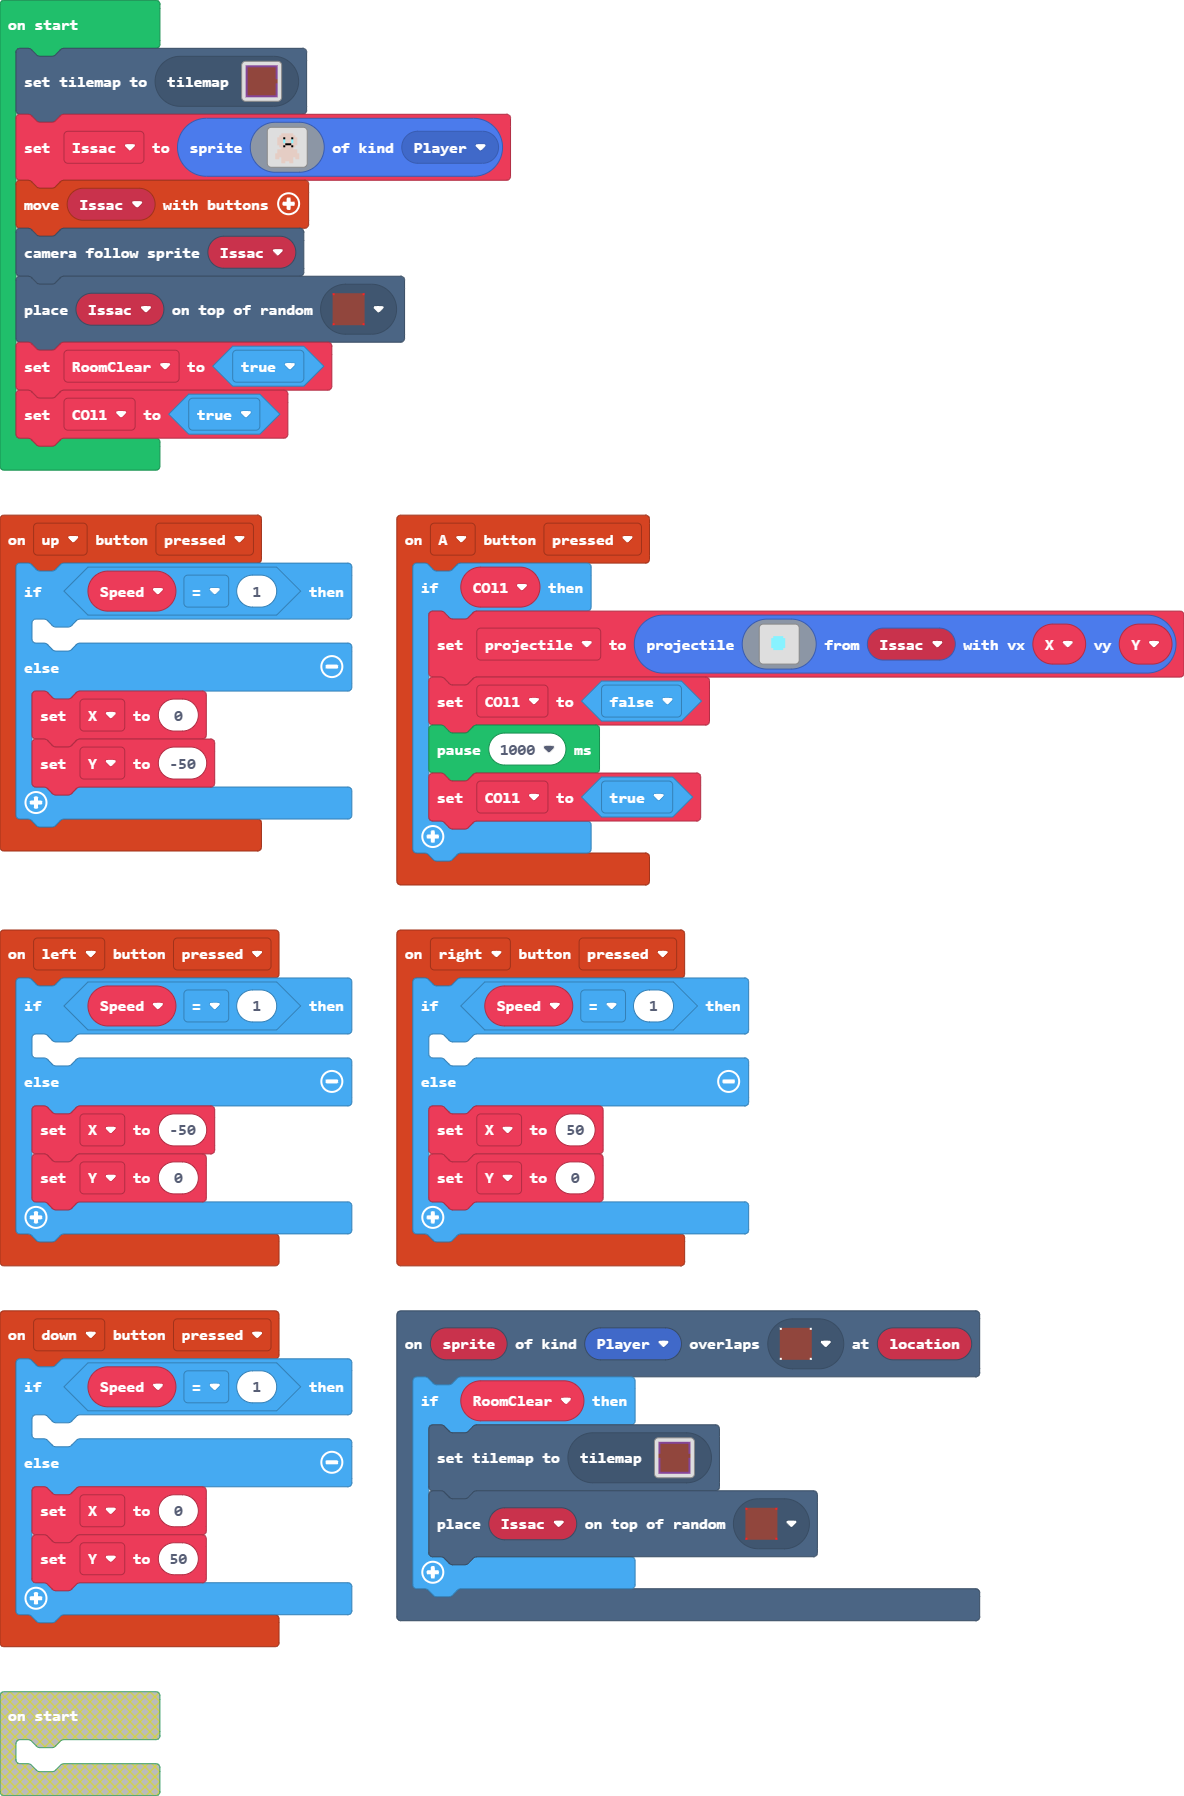
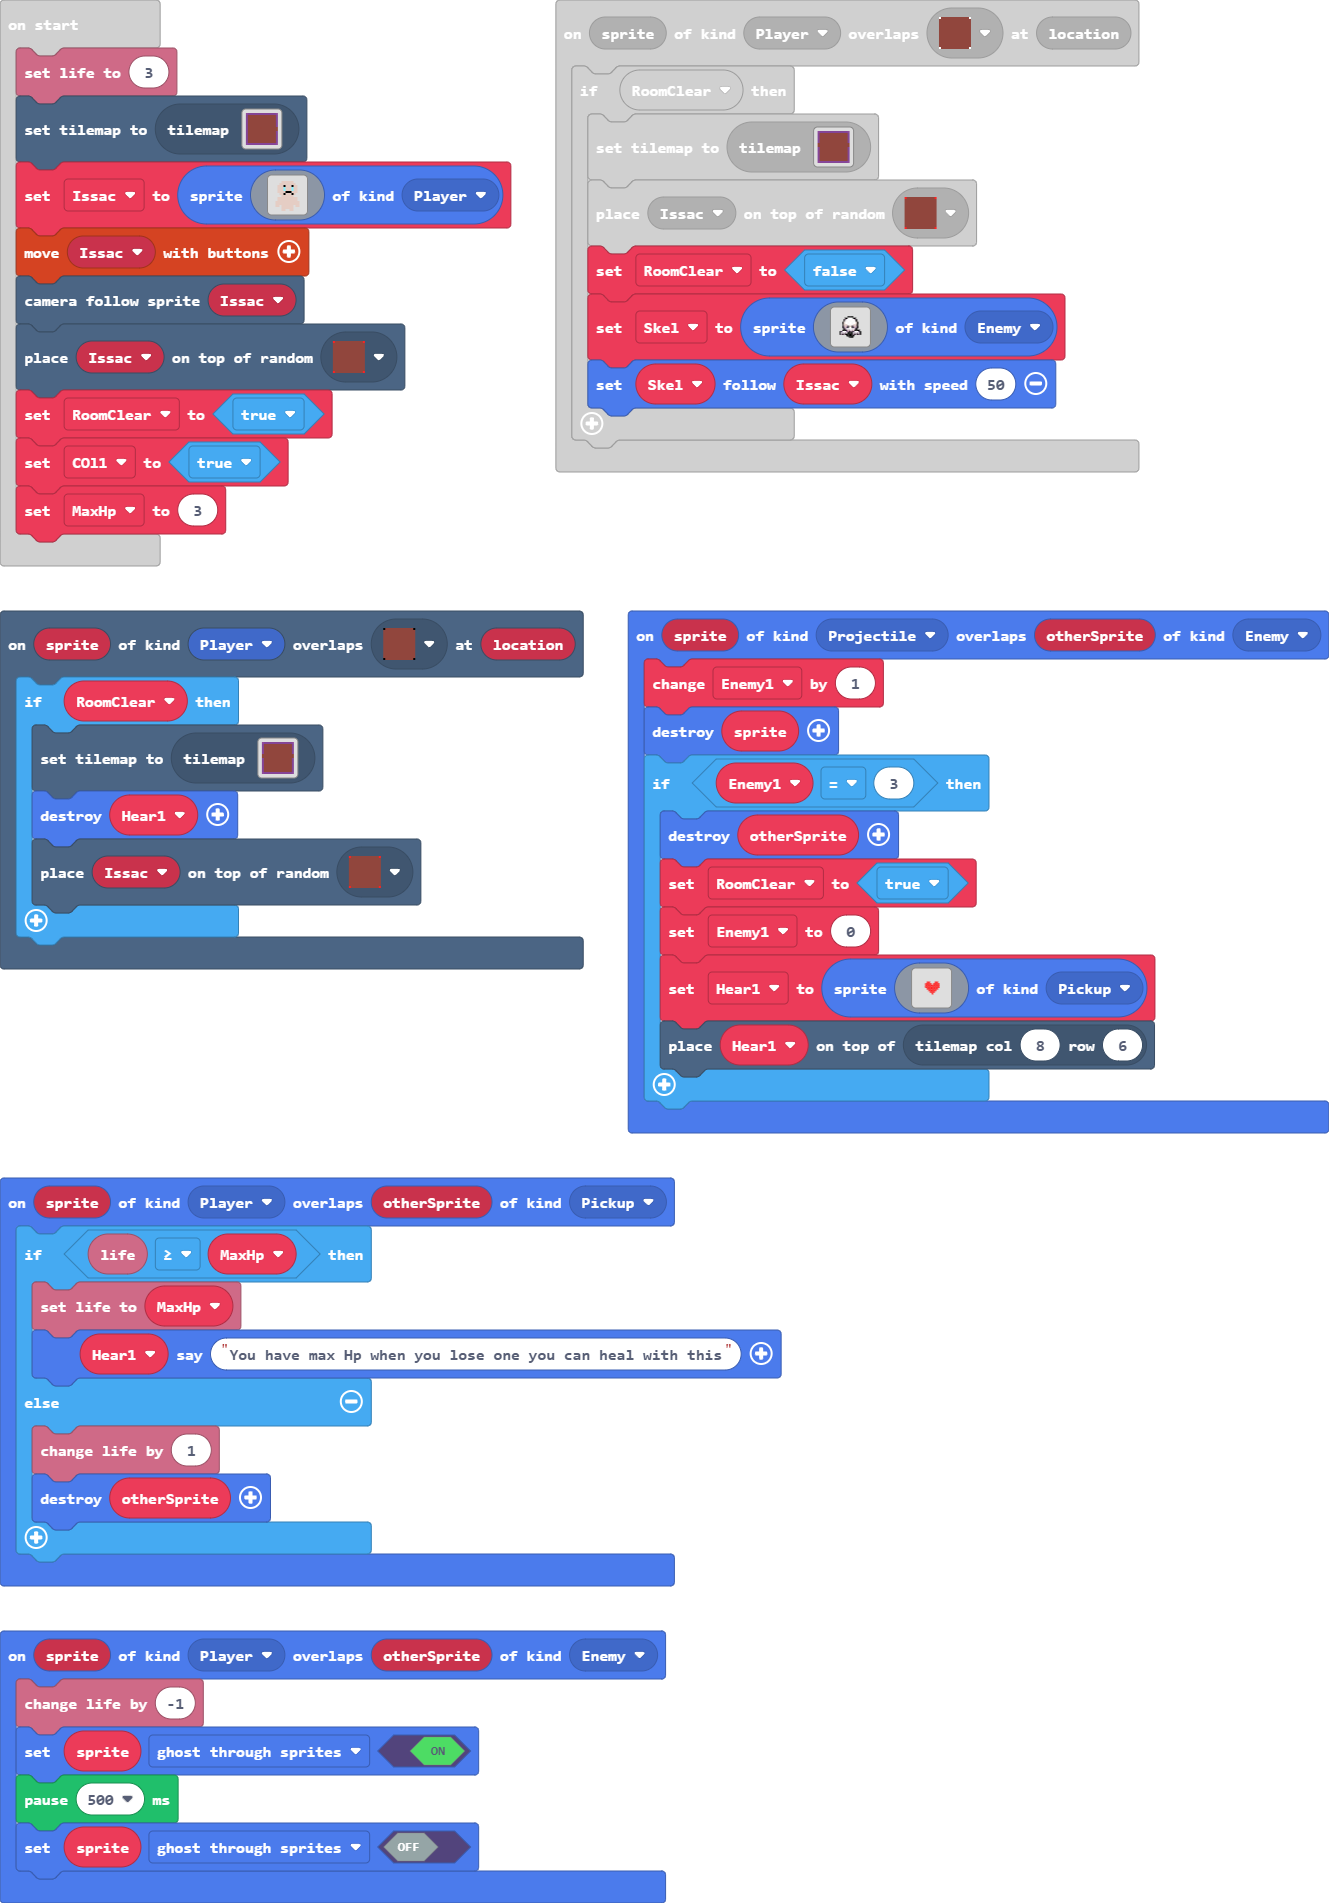
Update pxt.json, main.blocks, main.ts, tilemap.g.jres, tilemap.g.ts

diff --git a/tilemap.g.ts b/tilemap.g.ts
@@ -108,25 +108,101 @@ namespace myTiles {
 . . . . . . . . . . . . . . . . 
 . . . . . . . . . . . . . . . . 
 `, [myTiles.transparency16], TileScale.Sixteen);
+            case "level7":
+            case "level7":return tiles.createTilemap(hex`1000100000000000000000000000000000000000000000000000000000000000000000000000000000000000000000000000000000000000000000000000000000000000000000000000000000000000000000000000000000000000000000000000000000000000000000000000000000000000000000000000000000000000000000000000000000000000000000000000000000000000000000000000000000000000000000000000000000000000000000000000000000000000000000000000000000000000000000000000000000000000000000000000000000000000000000000000000000000000000000000000000000000000000000000000000000000000`, img`
+. . . . . . . . . . . . . . . . 
+. . . . . . . . . . . . . . . . 
+. . . . . . . . . . . . . . . . 
+. . . . . . . . . . . . . . . . 
+. . . . . . . . . . . . . . . . 
+. . . . . . . . . . . . . . . . 
+. . . . . . . . . . . . . . . . 
+. . . . . . . . . . . . . . . . 
+. . . . . . . . . . . . . . . . 
+. . . . . . . . . . . . . . . . 
+. . . . . . . . . . . . . . . . 
+. . . . . . . . . . . . . . . . 
+. . . . . . . . . . . . . . . . 
+. . . . . . . . . . . . . . . . 
+. . . . . . . . . . . . . . . . 
+. . . . . . . . . . . . . . . . 
+`, [myTiles.transparency16], TileScale.Sixteen);
+            case "level8":
+            case "level8":return tiles.createTilemap(hex`1000100000000000000000000000000000000000000000000000000000000000000000000000000000000000000000000000000000000000000000000000000000000000000000000000000000000000000000000000000000000000000000000000000000000000000000000000000000000000000000000000000000000000000000000000000000000000000000000000000000000000000000000000000000000000000000000000000000000000000000000000000000000000000000000000000000000000000000000000000000000000000000000000000000000000000000000000000000000000000000000000000000000000000000000000000000000000`, img`
+. . . . . . . . . . . . . . . . 
+. . . . . . . . . . . . . . . . 
+. . . . . . . . . . . . . . . . 
+. . . . . . . . . . . . . . . . 
+. . . . . . . . . . . . . . . . 
+. . . . . . . . . . . . . . . . 
+. . . . . . . . . . . . . . . . 
+. . . . . . . . . . . . . . . . 
+. . . . . . . . . . . . . . . . 
+. . . . . . . . . . . . . . . . 
+. . . . . . . . . . . . . . . . 
+. . . . . . . . . . . . . . . . 
+. . . . . . . . . . . . . . . . 
+. . . . . . . . . . . . . . . . 
+. . . . . . . . . . . . . . . . 
+. . . . . . . . . . . . . . . . 
+`, [myTiles.transparency16], TileScale.Sixteen);
             case "FirstEnemyRoom":
[1 lines of base64/hex data omitted]
+2 2 2 2 2 2 2 2 2 2 2 2 2 2 2 2 
+2 . . . . . . . . . . . . . . 2 
+2 . . . . . . . . . . . . . . 2 
+2 . . . . . . . . . . . . . . 2 
+2 . . . . . . . . . . . . . . 2 
+2 . . . . . . . . . . . . . . 2 
 . . . . . . . . . . . . . . . . 
 . . . . . . . . . . . . . . . . 
-. . . . . . . . . . . . . . . . 
-. . . . . . . . . . . . . . . . 
-. . . . . . . . . . . . . . . . 
-. . . . . . . . . . . . . . . . 
-. . . . . . . . . . . . . . . . 
-. . . . . . . . . . . . . . . . 
-. . . . . . . . . . . . . . . . 
-. . . . . . . . . . . . . . . . 
-. . . . . . . . . . . . . . . . 
-. . . . . . . . . . . . . . . . 
-. . . . . . . . . . . . . . . . 
-. . . . . . . . . . . . . . . . 
-. . . . . . . . . . . . . . . . 
-. . . . . . . . . . . . . . . . 
+2 . . . . . . . . . . . . . . 2 
+2 . . . . . . . . . . . . . . 2 
+2 . . . . . . . . . . . . . . 2 
+2 . . . . . . . . . . . . . . 2 
+2 . . . . . . . . . . . . . . 2 
+2 . . . . . . . . . . . . . . 2 
+2 . . . . . . . . . . . . . . 2 
+2 2 2 2 2 2 2 2 2 2 2 2 2 2 2 2 
 `, [myTiles.transparency16,myTiles.tile3,myTiles.tile5,myTiles.tile6,sprites.dungeon.purpleOuterNorth1,sprites.dungeon.purpleOuterNorthWest,sprites.dungeon.purpleOuterWest0,sprites.dungeon.purpleOuterSouthEast,sprites.dungeon.purpleOuterNorthEast,sprites.dungeon.purpleOuterEast0,sprites.dungeon.purpleOuterSouthWest,sprites.dungeon.purpleOuterSouth1], TileScale.Sixteen);
+            case "level9":
+            case "level9":return tiles.createTilemap(hex`1000100000000000000000000000000000000000000000000000000000000000000000000000000000000000000000000000000000000000000000000000000000000000000000000000000000000000000000000000000000000000000000000000000000000000000000000000000000000000000000000000000000000000000000000000000000000000000000000000000000000000000000000000000000000000000000000000000000000000000000000000000000000000000000000000000000000000000000000000000000000000000000000000000000000000000000000000000000000000000000000000000000000000000000000000000000000000`, img`
+. . . . . . . . . . . . . . . . 
+. . . . . . . . . . . . . . . . 
+. . . . . . . . . . . . . . . . 
+. . . . . . . . . . . . . . . . 
+. . . . . . . . . . . . . . . . 
+. . . . . . . . . . . . . . . . 
+. . . . . . . . . . . . . . . . 
+. . . . . . . . . . . . . . . . 
+. . . . . . . . . . . . . . . . 
+. . . . . . . . . . . . . . . . 
+. . . . . . . . . . . . . . . . 
+. . . . . . . . . . . . . . . . 
+. . . . . . . . . . . . . . . . 
+. . . . . . . . . . . . . . . . 
+. . . . . . . . . . . . . . . . 
+. . . . . . . . . . . . . . . . 
+`, [myTiles.transparency16], TileScale.Sixteen);
+            case "level10":
[1 lines of base64/hex data omitted]
+2 2 2 2 2 2 2 2 2 2 2 2 2 2 2 2 
+2 . . . . . . . . . . . . . . 2 
+2 . . . . . . . . . . . . . . 2 
+2 . . . . . . . . . . . . . . 2 
+2 . . . . . . . . . . . . . . 2 
+2 . . . . . . . . . . . . . . 2 
+. . . . . . . . . . . . . . . . 
+. . . . . . . . . . . . . . . . 
+2 . . . . . . . . . . . . . . 2 
+2 . . . . . . . . . . . . . . 2 
+2 . . . . . . . . . . . . . . 2 
+2 . . . . . . . . . . . . . . 2 
+2 . . . . . . . . . . . . . . 2 
+2 . . . . . . . . . . . . . . 2 
+2 . . . . . . . . . . . . . . 2 
+2 2 2 2 2 2 2 2 2 2 2 2 2 2 2 2 
+`, [myTiles.transparency16,myTiles.tile3,myTiles.tile5,myTiles.tile6,sprites.dungeon.purpleOuterNorthWest,sprites.dungeon.purpleOuterWest0,sprites.dungeon.purpleOuterSouthEast,sprites.dungeon.purpleOuterNorth1,sprites.dungeon.purpleOuterSouth1,sprites.dungeon.purpleOuterNorthEast,sprites.dungeon.purpleOuterEast0,sprites.dungeon.purpleOuterSouthWest], TileScale.Sixteen);
         }
         return null;
     })

diff --git a/main.ts b/main.ts
@@ -1,5 +1,6 @@
 namespace SpriteKind {
     export const Date = SpriteKind.create()
+    export const Pickup = SpriteKind.create()
 }
 controller.up.onEvent(ControllerButtonEvent.Pressed, function () {
     if (Speed == 1) {
@@ -7,6 +8,15 @@ controller.up.onEvent(ControllerButtonEvent.Pressed, function () {
     } else {
         X = 0
         Y = -50
+    }
+})
+sprites.onOverlap(SpriteKind.Player, SpriteKind.Pickup, function (sprite, otherSprite) {
+    if (info.life() >= MaxHp) {
+        info.setLife(MaxHp)
+        Hear1.sayText("You have max Hp when you lose one you can heal with this")
+    } else {
+        info.changeLifeBy(1)
+        sprites.destroy(otherSprite)
     }
 })
 controller.A.onEvent(ControllerButtonEvent.Pressed, function () {
@@ -42,6 +52,13 @@ controller.left.onEvent(ControllerButtonEvent.Pressed, function () {
         Y = 0
     }
 })
+scene.onOverlapTile(SpriteKind.Player, assets.tile`myTile3`, function (sprite, location) {
+    if (RoomClear) {
+        tiles.setCurrentTilemap(tilemap`level10`)
+        sprites.destroy(Hear1)
+        tiles.placeOnRandomTile(Issac, assets.tile`myTile4`)
+    }
+})
 controller.right.onEvent(ControllerButtonEvent.Pressed, function () {
     if (Speed == 1) {
     	
@@ -62,15 +79,86 @@ scene.onOverlapTile(SpriteKind.Player, assets.tile`myTile2`, function (sprite, l
     if (RoomClear) {
         tiles.setCurrentTilemap(tilemap`FirstEnemyRoom`)
         tiles.placeOnRandomTile(Issac, assets.tile`myTile4`)
+        RoomClear = false
+        Skel = sprites.create(img`
+            ........................
+            ........................
+            ........................
+            ........................
+            ..........ffff..........
+            ........ff1111ff........
+            .......fb111111bf.......
+            .......f11111111f.......
+            ......fd11111111df......
+            ......fd11111111df......
+            ......fddd1111dddf......
+            ......fbdbfddfbdbf......
+            ......fcdcf11fcdcf......
+            .......fb111111bf.......
+            ......fffcdb1bdffff.....
+            ....fc111cbfbfc111cf....
+            ....f1b1b1ffff1b1b1f....
+            ....fbfbffffffbfbfbf....
+            .........ffffff.........
+            ...........fff..........
+            ........................
+            ........................
+            ........................
+            ........................
+            `, SpriteKind.Enemy)
+        Skel.follow(Issac, 50)
     }
 })
+sprites.onOverlap(SpriteKind.Projectile, SpriteKind.Enemy, function (sprite, otherSprite) {
+    Enemy1 += 1
+    sprites.destroy(sprite)
+    if (Enemy1 == 3) {
+        sprites.destroy(otherSprite)
+        RoomClear = true
+        Enemy1 = 0
+        Hear1 = sprites.create(img`
+            ....................
+            ....................
+            ....................
+            ....................
+            ....................
+            ....................
+            .......22...22......
+            ......2222.2222.....
+            ......222222222.....
+            ......222222222.....
+            .......2222222......
+            ........22222.......
+            .........222........
+            ..........2.........
+            ....................
+            ....................
+            ....................
+            ....................
+            ....................
+            ....................
+            `, SpriteKind.Pickup)
+        tiles.placeOnTile(Hear1, tiles.getTileLocation(8, 6))
+    }
+})
+sprites.onOverlap(SpriteKind.Player, SpriteKind.Enemy, function (sprite, otherSprite) {
+    info.changeLifeBy(-1)
+    sprite.setFlag(SpriteFlag.GhostThroughSprites, true)
+    pause(500)
+    sprite.setFlag(SpriteFlag.GhostThroughSprites, false)
+})
+let Enemy1 = 0
+let Skel: Sprite = null
 let projectile: Sprite = null
+let Hear1: Sprite = null
 let Y = 0
 let X = 0
 let Speed = 0
+let MaxHp = 0
 let COl1 = false
 let RoomClear = false
 let Issac: Sprite = null
+info.setLife(3)
 tiles.setCurrentTilemap(tilemap`StartRoom`)
 Issac = sprites.create(img`
     . . . . . . . . . . . . 
@@ -95,3 +183,4 @@ scene.cameraFollowSprite(Issac)
 tiles.placeOnRandomTile(Issac, assets.tile`myTile4`)
 RoomClear = true
 COl1 = true
+MaxHp = 3
